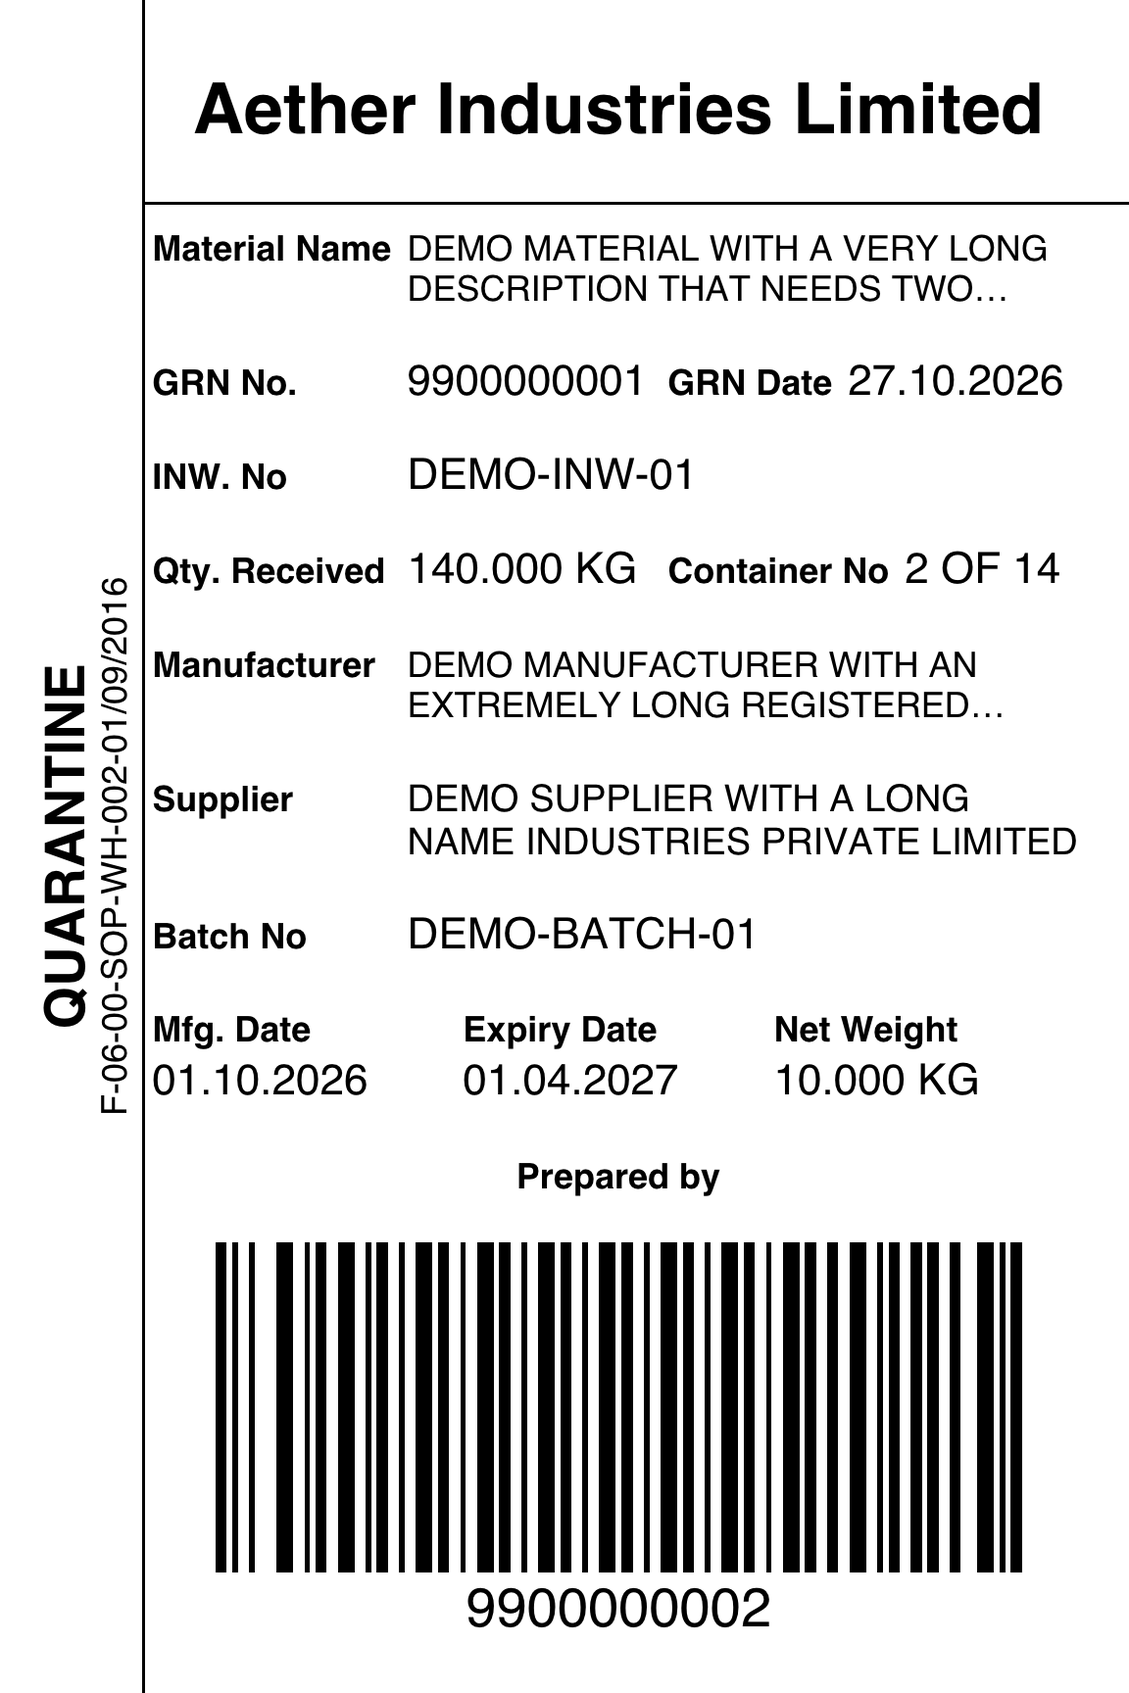
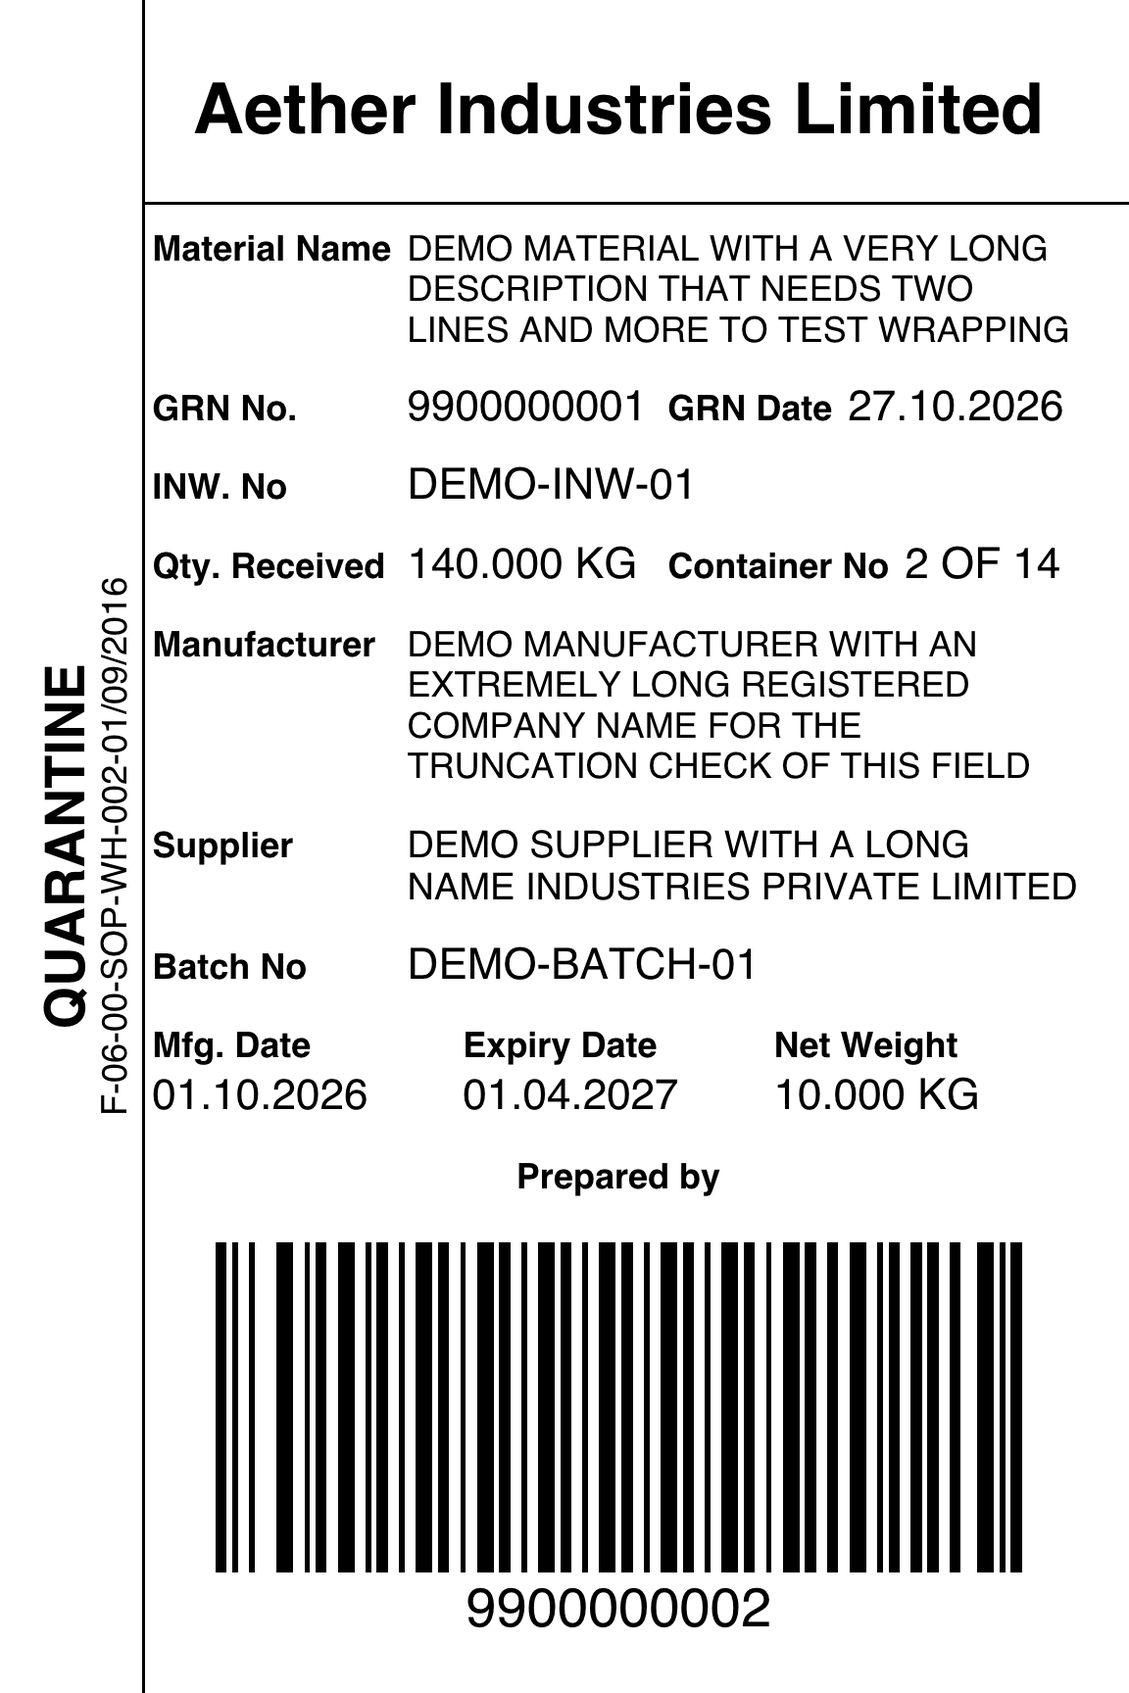
feat: 4x6 quarantine label prints long values in full, never cut with "…"
- fitText wraps at full size, then shrinks toward 9 pt, then uses as many
  lines as needed; every field may wrap; rows below move and spacing tightens
- A label that cannot hold its text is refused with code labelTooFull
  (i18n ql4x6Error_labelTooFull), nothing printed; qlLabelWarn_truncated removed
- Tests: worst realistic row at SAP field lengths prints in full; absurd
  data refused; samples regenerated
- WORKSTATUS.md: change, validation and user confirmation on the real
  528-label document

diff --git a/test/unit/wm/zquarLabel.test.js b/test/unit/wm/zquarLabel.test.js
@@ -202,13 +202,22 @@ describe('ZQUAR 4 x 6 label', () => {
         expect(box(q).x1).toBeLessThan(box(f).x0); // QUARANTINE first, then the form number
     });
 
+    // Worst realistic row: values at SAP field lengths (MAKTX 40, two BUT000 name lines, AUSP ATWRT 70, P_TEXT 50,
+    // LICHA 15), long quantities and a 3-digit container count. Every value must print in full.
+    const LONGEST = {
+        ...DEMO,
+        materialName: 'SODIUM HYDROXIDE PELLETS EXTRA PURE 99%', // 40
+        manufacturer: 'DYNAMIC CHEMICALS MANUFACTURING PRIVATE LIMITED UNIT II GUJARAT INDIA', // 70
+        supplier: 'DYNAMIC MERCANTILE PRIVATE LIMITED INDIA TRADING AND DISTRIBUTION DIVISION',
+        inwNo: 'INWARD 2026/10/27 GATE 3 VEHICLE GJ06AB1234 LOT 7', // 50
+        batchNo: 'SUPBATCH-123456', qtyReceived: '123456.789 KG', containerNo: '100 OF 140', netWeight: '12345.67KG',
+        grnDate: '27/10/2026', mfgDate: '01/10/2026', expiryDate: '30/09/2028'
+    };
+    const textOf = (f) => f.value.lines.join(' ');
+
     it('nothing overflows: every item inside the page, text 4 mm from the edges, text and barcode at least 10 pt from the bottom', () => {
-        const long = {
-            ...DEMO, materialName: 'W'.repeat(120), manufacturer: 'W '.repeat(80), supplier: 'DEMO '.repeat(30),
-            qtyReceived: 'W'.repeat(40), containerNo: '14 OF 14', grnNo: 'W'.repeat(20), netWeight: 'W'.repeat(20)
-        };
         const L = L4x6();
-        Layout.render(L, long, TEXTS).items.forEach((it) => {
+        Layout.render(L, LONGEST, TEXTS).items.forEach((it) => {
             const b = box(it);
             expect(b.x0).toBeGreaterThanOrEqual(-EPS);
             expect(b.y0).toBeGreaterThanOrEqual(-0.25 - EPS);
@@ -222,16 +231,21 @@ describe('ZQUAR 4 x 6 label', () => {
         });
     });
 
-    it('values stay inside their own column (no overlap with the next caption)', () => {
-        const long = Object.fromEntries(Object.keys(DEMO).map((k) => [k, 'W'.repeat(60)]));
-        const r = Layout.render(L4x6(), { ...long, barcode: DEMO.barcode }, TEXTS);
+    it('values stay inside their own column and rows never overlap, even with the longest values', () => {
+        const r = Layout.render(L4x6(), LONGEST, TEXTS);
         r.fields.filter((f) => f.value).forEach((f) => {
             f.value.lines.forEach((line) => expect(f.value.x + Layout.widthPt(line, f.value.pt, false)).toBeLessThanOrEqual(f.value.end + EPS));
         });
+        // last line of each row stays above the next row's baseline by at least one line
+        const rows = [...new Set(r.fields.map((f) => f.row))];
+        rows.slice(1).forEach((row, i) => {
+            const prevBottom = Math.max(...r.fields.filter((f) => f.row === rows[i] && f.value && f.value.lines.length)
+                .map((f) => f.value.y + (f.value.lines.length - 1) * f.value.pt * Layout.LH)), next = r.fields.find((f) => f.row === row).caption.y;
+            if (Number.isFinite(prevBottom)) expect(next - prevBottom).toBeGreaterThanOrEqual(11 * Layout.LH);
+        });
     });
 
-    describe('long values: wrap to 2 lines, then shrink to 9 pt, then "…"', () => {
-        const L = L4x6();
+    describe('long values are never cut: wrap, then shrink to 9 pt, then more lines', () => {
         const f = fld(fieldsOf(), 'materialName');
         const w = f.value.end - f.value.x;
         it('wraps at 11 pt when two lines are enough', () => {
@@ -239,17 +253,33 @@ describe('ZQUAR 4 x 6 label', () => {
             expect(r).toMatchObject({ pt: 11, truncated: false });
             expect(r.lines).toHaveLength(2);
         });
-        it('shrinks between 11 and 9 pt before cutting', () => {
+        it('shrinks between 11 and 9 pt before adding lines', () => {
             const r = Layout.fitText('DEMO '.repeat(10).trim(), w, 11, 2, false);
             expect(r.truncated).toBe(false);
             expect(r.pt).toBeLessThan(11);
             expect(r.pt).toBeGreaterThanOrEqual(9);
+            expect(r.lines.join(' ')).toBe('DEMO '.repeat(10).trim());
         });
-        it('cuts with "…" at 9 pt and reports it', () => {
-            const r = Layout.fitText('W'.repeat(200), w, 11, 2, false);
-            expect(r).toMatchObject({ pt: 9, truncated: true });
-            expect(r.lines[1].endsWith('…')).toBe(true);
-            expect(Layout.render(L, { ...DEMO, materialName: 'W'.repeat(200) }, TEXTS).warnings).toContainEqual({ code: 'truncated', field: 'materialName' });
+        it('at 9 pt uses more lines instead of "…"', () => {
+            const s = 'DEMO MATERIAL '.repeat(8).trim();
+            const r = Layout.fitText(s, w, 11, 2, false);
+            expect(r).toMatchObject({ pt: 9, truncated: false });
+            expect(r.lines.length).toBeGreaterThan(2);
+            expect(r.lines.join(' ')).toBe(s);
+        });
+        it('every field of the longest realistic row prints in full: no "…", no warning', () => {
+            const r = Layout.render(L4x6(), LONGEST, TEXTS);
+            ['materialName', 'manufacturer', 'supplier', 'inwNo', 'batchNo', 'qtyReceived', 'containerNo', 'netWeight', 'grnNo', 'grnDate']
+                .forEach((k) => expect(textOf(fld(r.fields, k))).toBe(LONGEST[k]));
+            textItems(r).forEach((i) => expect(i.text).not.toContain('…'));
+            expect(r.warnings).toEqual([]);
+        });
+        it('a label that cannot hold all its text is refused with a coded error, never printed cut', () => {
+            const absurd = Object.fromEntries(Object.keys(DEMO).map((k) => [k, 'WWWW '.repeat(40).trim()]));
+            expect(() => Layout.render(L4x6(), { ...absurd, barcode: DEMO.barcode }, TEXTS))
+                .toThrow(expect.objectContaining({ code: 'labelTooFull' }));
+            expect(() => Pdf.buildHtml([DEMO, { ...absurd, barcode: DEMO.barcode }], TEXTS, {}))
+                .toThrow(expect.objectContaining({ code: 'labelTooFull', label: 2 }));
         });
     });
 

diff --git a/app/fiori-app/webapp/modules/wm/quarantine-label/util/ZquarLabelLayout.js b/app/fiori-app/webapp/modules/wm/quarantine-label/util/ZquarLabelLayout.js
@@ -35,6 +35,8 @@ sap.ui.define([
     var DESIGN_PAGE = { w: 288, h: 432 };
     var TYPE = { caption: 9, value: 11, title: 18, quarantine: 14, formNumber: 9, humanReadable: 14 };
     var MIN_PT = 9;
+    var MAX_LINES = 40;      // wrap limit for one value; far beyond what a label can hold (the label check fails first)
+    var MIN_ROW_GAP = 2;     // white space between rows below which a label is refused instead of overlapping
     var LH = 1.15;           // line height of wrapped values
     var ASCENT = 0.79;       // text-box top -> baseline, measured in the sample (title, GRN No., barcode text: 0.789)
     var EM = 0.925;          // Helvetica ascender + descender: band of a rotated strip text
@@ -161,17 +163,21 @@ sap.ui.define([
         };
     }
 
-    /** Wrap first, then shrink to MIN_PT, then cut with "…". Width in pt. Returns {pt, lines, truncated}. */
+    /**
+     * Fits a text without ever cutting it (user decision 2026-10-27: every detail must print in full): wrap at pt
+     * within maxLines; if more lines are needed, shrink toward MIN_PT; if still more, keep MIN_PT and use as many
+     * lines as the text needs. Width in pt. Returns {pt, lines, truncated} (truncated only past MAX_LINES).
+     */
     function fitText(s, wPt, pt, maxLines, bold) {
         var wMm = wPt / MM2PT;
         var floor = Math.min(MIN_PT, pt);
         for (var p = pt; p >= floor; p = half(p - 0.5)) {
             var r = HuLayout.wrap(s, wMm, p, maxLines, bold);
             if (!r.truncated) { return { pt: p, lines: r.lines, truncated: false }; }
-            if (p === floor) { return { pt: p, lines: r.lines, truncated: true }; }
+            if (p === floor) { break; }
         }
-        var last = HuLayout.wrap(s, wMm, floor, maxLines, bold);
-        return { pt: floor, lines: last.lines, truncated: last.truncated };
+        var all = HuLayout.wrap(s, wMm, floor, MAX_LINES, bold);
+        return { pt: floor, lines: all.lines, truncated: all.truncated };
     }
 
     /**
@@ -195,6 +201,11 @@ sap.ui.define([
         throw Object.assign(new Error("Barcode value '" + sValue + "' is too long for the label: " + g.total + " modules need "
             + (g.total * minDots * L.dotPt).toFixed(1) + " pt at the minimum module (" + BARCODE.minModuleMm + " mm), "
             + avail.toFixed(1) + " pt available."), { code: "barcodeTooLong" });
+    }
+
+    function tooFull(sField) {
+        return Object.assign(new Error("The label details do not fit on one label" + (sField ? " (" + sField + ")" : "") + "."),
+            { code: "labelTooFull", field: sField });
     }
 
     /**
@@ -238,12 +249,12 @@ sap.ui.define([
             }
             var sCaption = (row.captions && row.captions[d.key]) || texts[d.key];
             var c = fitText(sCaption, cEnd - cx, capPt, 1, true);
-            if (c.truncated) { warnings.push({ code: "truncated", field: d.key + ".caption" }); }
             var v = null;
             if (!d.noValue) {
                 var s = row[d.key] == null ? "" : String(row[d.key]).trim();
+                // Every value may wrap (never cut); d.lines = lines allowed before shrinking
                 var r = s ? fitText(s, vEnd - vx, valPt, d.lines || 1, false) : { pt: valPt, lines: [], truncated: false };
-                if (r.truncated) { warnings.push({ code: "truncated", field: d.key }); }
+                if (r.truncated) { throw tooFull(d.key); }
                 v = { x: vx, end: vEnd, pt: r.pt, lines: r.lines };
             }
             if (d.center) { cx = L.axis; } // centred caption (no value): drawn with align center
@@ -255,7 +266,8 @@ sap.ui.define([
         for (var i = 0; i < ROW_COUNT; i++) { extra.push(0); }
         fields.forEach(function (f) {
             if (f.col !== undefined) {
-                extra[f.row] = Math.max(extra[f.row], capPt * LH + L.rows.dateGap);
+                var dateLines = Math.max(1, f.value.lines.length);
+                extra[f.row] = Math.max(extra[f.row], capPt * LH + L.rows.dateGap + (dateLines - 1) * f.value.pt * LH);
             } else if (f.value && f.value.lines.length > 1) {
                 extra[f.row] = Math.max(extra[f.row], (f.value.lines.length - 1) * f.value.pt * LH);
             }
@@ -263,6 +275,8 @@ sap.ui.define([
         var first = L.rows.firstTop + valPt * ASCENT;
         var total = extra.reduce(function (a, b) { return a + b; }, 0) - extra[ROW_COUNT - 1];
         var pitch = (L.rows.lastBaseline - first - total) / (ROW_COUNT - 1);
+        // Too much text for one label: refuse it (named by ZquarLabelPdf) rather than overlap or cut anything
+        if (pitch < L.type.value * LH + MIN_ROW_GAP) { throw tooFull(); }
         var base = [first];
         for (var j = 1; j < ROW_COUNT; j++) { base.push(base[j - 1] + extra[j - 1] + pitch); }
 

diff --git a/test/unit/wm/quarantineLabelsController.test.js b/test/unit/wm/quarantineLabelsController.test.js
@@ -136,9 +136,9 @@ describe('QuarantineLabels controller', () => {
             await s.on4x6Labels();
             expect(Pdf.toBlob.mock.calls[0][2]).toEqual({ size: '4x6' });
         });
-        it('shows render warnings (e.g. a shortened value) as a warning, the PDF stays available', async () => {
+        it('shows render warnings (e.g. no barcode) as a warning, the PDF stays available', async () => {
             Service.labelRows.mockResolvedValue(rows);
-            Pdf.toBlob.mockResolvedValue({ blob: {}, warnings: [{ label: 2, code: 'truncated', field: 'Text' }] });
+            Pdf.toBlob.mockResolvedValue({ blob: {}, warnings: [{ label: 2, code: 'barcodeMissing', field: 'barcode' }] });
             const { s, d } = subject();
             await s.on4x6Labels();
             expect(d.messageType).toBe('Warning');

diff --git a/WORKSTATUS.md b/WORKSTATUS.md
@@ -7,7 +7,7 @@ Single source of truth for work history, current status, validation, unresolved 
 
 ## Current Status
 
-- **ZQUAR 4 x 6 label layout + print (2026-10-27 11:24 IST) — PARTIAL, UNCOMMITTED:** print path at exact 4 x 6 size (HTML/SVG, kerning off); strip texts at normal width; field rows reworked on the user's request ("So Many Not Aligned properly. Reduce Spaces Between Font Size Check"): caption and value share a baseline, all captions 9 pt bold and all values 11 pt, right-hand pairs in one caption column, date captions over their values, rows evenly spaced with a second line only when a value wraps. Unit 3,918 PASS, browser E2E 6/6 PASS, print and PDF inspected visually. Barcode number centred under the bars. Physical reprint of that layout OK per user; since then (2026-10-27 11:34 IST) "Prepared by" centred, rules kept inside the 4 mm margin and joined at the corner, title/"Prepared by"/barcode on one centre axis; (2026-10-27 11:40 IST) rules drawn as 2-dot bars on the printer dot grid, row pitch fixed at 22 pt, barcode 129.5 pt judged "too big" by the user, now (2026-10-27 11:44 IST) 84 pt (≈ 30 mm) with a 14 pt number, anchored at the bottom; (2026-10-27 11:48 IST) "Prepared by" just above the barcode as one block, rows spread evenly above (≈ 27.9 pt pitch). (2026-10-27 11:50 IST) rules now run to the label edges (side rule top to bottom edge since 2026-10-27 11:52 IST, title rule to the right edge; strip texts centred on the full height since 2026-10-27 11:53 IST) on the user's request; physical reprint of this version (lines edge to edge, strip centred, barcode scan) OK as reported by the user (2026-10-27 11:53 IST). Earlier reprint: layout, lines and barcode scan OK as reported by the user (2026-10-27 11:48 IST). Remaining: other browsers, multi-label run, live SAP rows; UNCOMMITTED. See Changes Log 2026-10-27 11:48 IST.
+- **ZQUAR 4 x 6 label layout + print (2026-10-27 11:24 IST) — PARTIAL, UNCOMMITTED:** print path at exact 4 x 6 size (HTML/SVG, kerning off); strip texts at normal width; field rows reworked on the user's request ("So Many Not Aligned properly. Reduce Spaces Between Font Size Check"): caption and value share a baseline, all captions 9 pt bold and all values 11 pt, right-hand pairs in one caption column, date captions over their values, rows evenly spaced with a second line only when a value wraps. Unit 3,918 PASS, browser E2E 6/6 PASS, print and PDF inspected visually. Barcode number centred under the bars. Physical reprint of that layout OK per user; since then (2026-10-27 11:34 IST) "Prepared by" centred, rules kept inside the 4 mm margin and joined at the corner, title/"Prepared by"/barcode on one centre axis; (2026-10-27 11:40 IST) rules drawn as 2-dot bars on the printer dot grid, row pitch fixed at 22 pt, barcode 129.5 pt judged "too big" by the user, now (2026-10-27 11:44 IST) 84 pt (≈ 30 mm) with a 14 pt number, anchored at the bottom; (2026-10-27 11:48 IST) "Prepared by" just above the barcode as one block, rows spread evenly above (≈ 27.9 pt pitch). (2026-10-27 11:50 IST) rules now run to the label edges (side rule top to bottom edge since 2026-10-27 11:52 IST, title rule to the right edge; strip texts centred on the full height since 2026-10-27 11:53 IST) on the user's request; physical reprint of this version (lines edge to edge, strip centred, barcode scan) OK as reported by the user (2026-10-27 11:53 IST). Earlier reprint: layout, lines and barcode scan OK as reported by the user (2026-10-27 11:48 IST). Remaining: other browsers, multi-label run, live SAP rows; UNCOMMITTED. See Changes Log 2026-10-27 11:48 IST. (2026-10-27 12:02 IST) Long values are never cut any more ("…" removed): they wrap, shrink to 9 pt, then use more lines; a label that cannot hold its text is refused with a named error; confirmed by the user on the real 528-label document (2026-10-27 12:02 IST): no "shortened" warning, reprint of one of labels 282–322 shows everything in full.
 
 - **ZQUAR 4 x 6 from the SAP Adobe form (2026-10-27 10:55 IST) — PARTIAL, UNCOMMITTED:** developer spec rewritten (10 pt, measured positions), wrapper `IV_FORM` draft confirmed, CAP fails clearly when the active wrapper has no `IV_FORM`, acceptance check `tools/check-label-pdf.py` built and tested; form copy, wrapper activation, print/scan tests PENDING (developer/user). Browser renderer kept as non-authoritative fallback, unchanged. See Changes Log 2026-10-27 10:55 IST.
 
@@ -4894,3 +4894,26 @@ Single source of truth for work history, current status, validation, unresolved 
 - **DONE (local only, nothing pushed):** backup branch `backup/feature01-before-split` created at the old tip (00be937). Rebuilt from 9bddddb: `a84509c` Adobe spec / adapter IV_FORM check / `tools/check-label-pdf.py` + their tests + WORKSTATUS 10:55 IST entry (exactly the 18 lines that were uncommitted at session start); `3e864cd` the rest of bdd4192 (4x6 print path; tree identical to bdd4192); then `09a0775` and `4d50898` replayed (were 3040d0c, 00be937). Original author dates kept for the two split commits.
 - **Executed validation:** `git diff bdd4192 3e864cd` 0 lines; `git diff backup/feature01-before-split HEAD` 0 lines (final tree byte-identical); at a84509c `npx jest` adapter, checkLabelPdf, zquarLabel, controller suites 4/4, 96 tests PASS; at the tip `npx jest test/unit` 197 passed, 1 skipped, 3,920 passed / 59 skipped / 0 failed. `feature01` is 15 ahead of `origin/feature01`, not pushed. TEST DECISION: EXISTING TEST SUFFICIENT (no content change).
 - **Next:** delete `backup/feature01-before-split` once the user is satisfied; this entry itself is uncommitted. **ASSUMPTIONS:** none. **FINAL STATUS:** PASS.
+
+
+### 2026-10-27 12:02 IST — ZQUAR 4 x 6: long values print in full, never shortened with "…" — PARTIAL, UNCOMMITTED
+
+- **User request (quoted, with the screen message "528 label(s) ready … label 282 … 322: a long value was shortened with \"…\""):** "We Don't want to Long Vale Turncat in lable or print all the Detailed are necessary to show".
+- **Cause:** `ZquarLabelLayout.fitText` allowed Material Name / Manufacturer / Supplier 2 lines and every other value 1 line, then shrank to 9 pt and cut the rest with "…" (via `HuLabelLayout.wrap`), reporting a `truncated` warning. Which field was cut on labels 282–322 is UNKNOWN (warnings did not name the field on screen; no SAP read in this task).
+- **CHANGED:**
+  - `app/fiori-app/webapp/modules/wm/quarantine-label/util/ZquarLabelLayout.js`: `fitText` never cuts — wrap at 11 pt within the preferred lines, then shrink toward 9 pt, then keep 9 pt and use as many lines as needed (limit 40); every field may wrap (incl. GRN/INW/qty/container/batch/dates/net weight); wrapped lines push the rows below and the even spacing tightens (date row accounts for wrapped date values); if the rows would leave < 2 pt between them, the label is refused with code `labelTooFull` (named by `ZquarLabelPdf` as label n, nothing printed); `truncated` warnings removed.
+  - i18n (both bundles): `qlLabelWarn_truncated` removed (no longer emitted; only referenced dynamically by `qlLabelWarn_<code>`); `ql4x6Error_labelTooFull` added ("Label 0: the details are too long to print in full on one label. Nothing was printed."), shown by the existing controller path `ql4x6Error_<code>`.
+  - Samples regenerated (`docs/label/samples/zquar-4x6-same-DEMO.pdf`, `-p1/-p2-long/-p3-empty.png`); the generator now reports no warnings (page 2 prints the extremely long values in full).
+- **TEST DECISION: TEST UPDATED + TEST ADDED** — `zquarLabel.test.js`: worst realistic row at SAP field lengths (MAKTX 40, AUSP ATWRT 70, P_TEXT 50, two name lines, LICHA 15, long quantities, 3-digit container count) renders inside the page with columns respected and rows not overlapping, every value printed in full, no "…", no warnings; `fitText` wraps / shrinks / adds lines and never cuts; absurd data is refused with `labelTooFull` (label number via `buildHtml`). Controller test uses `barcodeMissing` as the sample warning.
+- **Executed validation:** `npx jest test/unit/wm/zquarLabel.test.js test/unit/wm/quarantineLabelsController.test.js` 63/63 PASS (3 expected failures from the old cut behaviour rewritten first); `npx jest test/unit` 197 passed, 1 skipped, 3,922 passed / 59 skipped / 0 failed; `npx ui5lint` no findings; `git diff --check` PASS; browser E2E `verifyQuarantineLabels.e2e.js` 6/6 PASS (local `cap-ui-test` :4010 started and stopped; actions mocked, write guard on); sample page 2 and a worst-case render (scratch) inspected visually — all text present.
+- **Known effect:** a value wider than its column wraps at 9 pt inside the column (e.g. "100 OF / 140", "123456.789 / KG").
+- **NOT VERIFIED:** the user's 528-label document (labels 282–322) re-generated with live SAP data; physical print. **ASSUMPTIONS:** none. **FINAL STATUS:** PARTIAL. **Exact next action:** user re-runs "4x6 Labels" for the same material document — expect no "shortened" warning — and reprints one of labels 282–322.
+
+
+### 2026-10-27 12:02 IST — ZQUAR 4 x 6: never-cut long values confirmed on the real document
+
+- **User report (quoted):** "I re-ran 4x6 Labels for the same document: no shortened warning, and a reprint of one of labels 282-322 shows everything in full."
+- **Covers:** the never-cut change of the previous entry, run through the "4x6 Labels" action on the same material document as the 528-label run (live SAP read-only rows through the option-2 path, as the screen reads them) and a physical reprint of one affected label.
+- **Evidence type:** user-reported; not observed by the agent. Material document number, which label was reprinted, which field had been cut, printer and browser not stated (UNKNOWN).
+- **CHANGED:** WORKSTATUS.md only. No code change, no tests run, no SAP call by the agent.
+- **Still NOT VERIFIED:** browsers other than Chromium; printing all 528 labels in one run. **ASSUMPTIONS:** the re-run used live SAP data, since the 528-label document came from the screen. **FINAL STATUS:** never-cut change PASS per user; feature PARTIAL for the items above. Changes UNCOMMITTED.
